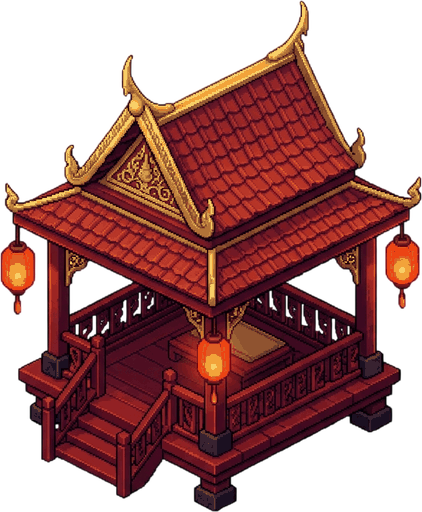
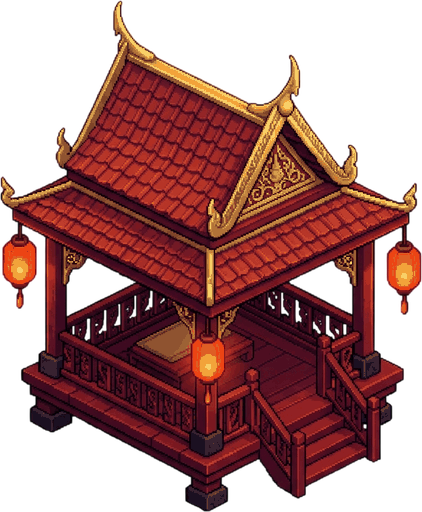
AVEGEE batch23: court open/close only gates new spawns, st-tea flip, guard post, interrogation layout (Codex)

diff --git a/src/room.js b/src/room.js
@@ -118,6 +118,7 @@ function bgOf(src, fallback) {
 /** ฉากภายในหนึ่งห้อง — เรียก destroy() ทุกครั้งที่ปิดหน้า ไม่งั้นลูปเฟรมค้างอยู่ตลอดเกม */
 export function makeRoom(cv, g, def, room, bgSrc, bgFallback, alive = () => true) {
   const P = { x: room.me[0], y: room.me[1], tx: null, ty: null, face: 1 };
+  const mirrorRoom = def.k === 'tea' && g.zone === 'th';
   const KEY = {};
   let raf = 0, last = performance.now(), dead = false;
   let box = { ox: 0, oy: 0, w: 1, h: 1 };     // กรอบที่ภาพฉากถูกวางจริงบน canvas
@@ -134,7 +135,7 @@ export function makeRoom(cv, g, def, room, bgSrc, bgFallback, alive = () => true
   let locked = false;
 
   // ---- พิกัดสัดส่วน (0-1 ของภาพฉาก) → พิกเซลบน canvas ----
-  const px = u => box.ox + u * box.w;
+  const px = u => box.ox + (mirrorRoom ? 1 - u : u) * box.w;
   const py = v => box.oy + v * box.h;
   const unit = () => Math.min(box.w, box.h);     // ใช้คิดความสูงตัวละครให้คงที่ทุกอัตราส่วน
 
@@ -198,7 +199,8 @@ export function makeRoom(cv, g, def, room, bgSrc, bgFallback, alive = () => true
     const r = cv.getBoundingClientRect();
     const cx = (e.clientX - r.left) / r.width * cv.width;
     const cy = (e.clientY - r.top) / r.height * cv.height;
-    const [tx, ty] = snap((cx - box.ox) / box.w, (cy - box.oy) / box.h);
+    const visualX = (cx - box.ox) / box.w;
+    const [tx, ty] = snap(mirrorRoom ? 1 - visualX : visualX, (cy - box.oy) / box.h);
     P.tx = tx; P.ty = ty;
   };
   cv.addEventListener('pointerdown', onDown);
@@ -231,6 +233,7 @@ export function makeRoom(cv, g, def, room, bgSrc, bgFallback, alive = () => true
     let dx = 0, dy = 0;
     if (KEY.a || KEY.arrowleft) dx -= 1;
     if (KEY.d || KEY.arrowright) dx += 1;
+    if (mirrorRoom) dx = -dx;
     if (KEY.w || KEY.arrowup) dy -= 1;
     if (KEY.s || KEY.arrowdown) dy += 1;
     if (!dx && !dy && P.tx != null) {            // เดินไปจุดที่แตะไว้
@@ -245,7 +248,7 @@ export function makeRoom(cv, g, def, room, bgSrc, bgFallback, alive = () => true
       else if (inArea(nx, P.y)) P.x = nx;
       else if (inArea(P.x, ny)) P.y = ny;
       else P.tx = null;
-      if (Math.abs(dx) > 0.001) P.face = dx < 0 ? -1 : 1;
+      if (Math.abs(dx) > 0.001) P.face = (mirrorRoom ? -dx : dx) < 0 ? -1 : 1;
     }
     const ii = g.items.findIndex(it => it.from === def.k);
     if (ii >= 0 && room.item && Math.hypot(P.x - room.item[0], (P.y - room.item[1]) * 0.75) < 0.055) {
@@ -286,21 +289,29 @@ export function makeRoom(cv, g, def, room, bgSrc, bgFallback, alive = () => true
       const s = Math.min(W / sw, H / sh);
       box = { ox: (W - sw * s) / 2, oy: (H - sh * s) / 2, w: sw * s, h: sh * s };
       ctx.fillStyle = '#120810'; ctx.fillRect(0, 0, W, H);
+      // ห้องศาลาโซนไทยใช้ภาพฉากเดิม แต่หันให้ตรงกับสไปรท์บนแผนที่;
+      // จุดเดิน/จุดนั่งแปลงผ่าน px และ pointer เพื่อให้ยังตรงกับภาพที่กลับด้าน
+      const drawRoomBg = () => {
+        ctx.save();
+        if (mirrorRoom) { ctx.translate(box.ox * 2 + box.w, 0); ctx.scale(-1, 1); }
+        ctx.drawImage(bg, sx, sy, sw, sh, box.ox, box.oy, box.w, box.h);
+        ctx.restore();
+      };
       // ยกแสงเฉพาะภาพฉาก ตัวละครไม่โดนด้วย จะได้ยังเด่นอยู่บนพื้นหลัง
       const bf = room.bright || brightOf(bg, bgSrc);
       if (Math.abs(bf - 1) > 0.02 && canFilter()) {
         ctx.save();
         ctx.filter = `brightness(${bf.toFixed(2)})`;
-        ctx.drawImage(bg, sx, sy, sw, sh, box.ox, box.oy, box.w, box.h);
+        drawRoomBg();
         ctx.restore();
       } else if (bf > 1.02) {                            // ไม่รองรับ filter — ทับอีกชั้นแบบบวกแสง
-        ctx.drawImage(bg, sx, sy, sw, sh, box.ox, box.oy, box.w, box.h);
+        drawRoomBg();
         ctx.save();
         ctx.globalCompositeOperation = 'lighter';
         ctx.globalAlpha = Math.min(0.5, (bf - 1) * 0.7);
-        ctx.drawImage(bg, sx, sy, sw, sh, box.ox, box.oy, box.w, box.h);
+        drawRoomBg();
         ctx.restore();
-      } else ctx.drawImage(bg, sx, sy, sw, sh, box.ox, box.oy, box.w, box.h);
+      } else drawRoomBg();
       applyLight(ctx, room.light, box);                 // ห้องที่สว่างเกิน — ย้อมลงเฉพาะภาพฉาก
     } else {
       box = { ox: 0, oy: 0, w: W, h: H };

diff --git a/src/ui.js b/src/ui.js
@@ -781,7 +781,7 @@ document.querySelectorAll('.tabs [data-tab]').forEach(el =>
 $('#atk').onclick = tryFight;
 $('#fab-atk').onclick = tryFight;
 function goTrial() {
-  if (!g.queue[0] || g.courtClosed || g.over || g.battle) return;
+  if (!g.queue[0] || g.over || g.battle) return;
   openTrial();
 }
 
@@ -939,18 +939,18 @@ function updateTrialBtn() {
   const s = g.queue[0];
   const b = deckBar.querySelector('#d-trial');
   if (b) {
-    b.disabled = !s || g.courtClosed;
-    b.className = s && !g.courtClosed ? 'gold' : '';
-    b.textContent = s && !g.courtClosed ? t('hud.trialBegins') : t('hud.trialRecess');
+    b.disabled = !s || !!g.over || !!g.battle;
+    b.className = !b.disabled ? 'gold' : '';
+    b.textContent = !b.disabled ? t('hud.trialBegins') : t('hud.trialRecess');
   }
   // ทางเข้าหลักอยู่ล่างกลาง; เก็บปุ่มลอยเก่าที่อาจค้างจากการวาดก่อนหน้า
   const f = ov.querySelector('.trialfab');
   if (f) f.remove();
   const trial = $('#hud-trial');
   if (trial) {
-    trial.disabled = !s || g.courtClosed || !!g.over || !!g.battle;
+    trial.disabled = !s || !!g.over || !!g.battle;
     trial.textContent = t(trial.disabled ? 'hud.trialRecess' : 'hud.trialBegins');
-    trial.title = g.courtClosed ? t('hud.courtClosedTrial') : trial.disabled ? t('hud.noCourt') : t('hud.trialBegins');
+    trial.title = trial.disabled ? t('hud.noCourt') : t('hud.trialBegins');
     trial.setAttribute('aria-label', trial.disabled ? `${trial.textContent} — ${trial.title}` : trial.title);
   }
 }
@@ -1035,8 +1035,8 @@ function updateFrontierFab() {
  *  ทางเข้าหลักอยู่ที่ปุ่มเริ่มพิจารณาคดีล่างกลาง; ปุ่มนี้เป็นทางเข้าเดียวกันจากแผงเดิม */
 function drawDeck() {
   const s = g.queue[0];
-  if (!s || g.over || g.courtClosed) {
-    deckBar.innerHTML = `<div class="idle">${esc(t(g.courtClosed ? 'hud.courtClosedTrial' : 'hud.noCourt'))}</div>`;
+  if (!s || g.over || g.battle) {
+    deckBar.innerHTML = `<div class="idle">${esc(t('hud.noCourt'))}</div>`;
     return;
   }
   deckBar.innerHTML = `
@@ -1601,7 +1601,7 @@ function playActionCutscene(k, ultimate = null) {
 let trialCmd = 'ask';        // แผงขวาเป็นการไต่สวนเสมอ; ตัวเลือกคำตัดสินอยู่ในวงคำสั่งบนเวที
 
 function openTrial(initialError = '') {
-  if (g.courtClosed) return;
+  if (g.over || g.battle) return;
   const s = g.queue[0];
   if (!s) return;
   pauseForDlg();
@@ -2559,7 +2559,9 @@ function openPause(allowReplacing = false) {
 }
 
 function updatePlay() {
-  $('#play').textContent = t(g.courtClosed ? 'hud.openCourt' : 'hud.closeCourt');
+  const play = $('#play');
+  play.textContent = t(g.courtClosed ? 'hud.openCourt' : 'hud.closeCourt');
+  play.title = t(g.courtClosed ? 'hud.openCourtTip' : 'hud.closeCourtTip');
   // ปุ่มย้ายโซนโผล่เมื่อมีโซนอื่นเปิดให้จริง ๆ เท่านั้น — ไม่งั้นกดแล้วเจอแต่กุญแจ
   const z = $('#zone');
   if (z) {
@@ -2585,7 +2587,8 @@ function updatePlay() {
     court.textContent = t(g.courtClosed ? 'hud.openCourt' : 'hud.closeCourt');
     court.disabled = !!g.over;
     court.setAttribute('aria-pressed', String(!g.courtClosed));
-    court.setAttribute('aria-label', court.textContent);
+    court.title = t(g.courtClosed ? 'hud.openCourtTip' : 'hud.closeCourtTip');
+    court.setAttribute('aria-label', `${court.textContent} — ${court.title}`);
   }
 }
 function toggleCourt() {

diff --git a/src/command-wheel.css b/src/command-wheel.css
@@ -160,7 +160,7 @@ dialog.hudwrap:has(.trial-hud)[open]{position:fixed;inset:0;margin:0;width:100vw
 .trial-hud .hud-opt{min-height:180px;overflow:visible}
 .trial-hud .hud-opt .say{display:block;width:100%;text-align:left;font-size:clamp(14px,1.1vw,18px);line-height:1.45;padding:11px 13px;margin-bottom:8px;background:#443038c9;border-radius:12px}
 .trial-hud .hud-log{font-size:clamp(14px,1.05vw,17px);max-height:140px;line-height:1.55}
-.trial-hud .hud-stage .fig.you{left:2%;bottom:23%;width:16%}
+.trial-hud .hud-stage .fig.you{left:14%;bottom:23%;width:16%}
 .trial-hud .hud-stage .fig.foe{right:7%;bottom:23%;width:25%}
 .trial-hud .hud-stage .fig img{height:clamp(150px,24vh,220px)}
 .trial-hud .hud-bottom{position:absolute;left:14%;bottom:2%;height:auto;padding:0;z-index:12}
@@ -169,7 +169,7 @@ dialog.hudwrap:has(.trial-hud)[open]{position:fixed;inset:0;margin:0;width:100vw
 .trial-hud .port .who2 b{font-size:18px}.trial-hud .port .who2 small{font-size:12px;color:#e1ba71}
 .trial-hpbar{display:block;width:105px;height:8px;margin-top:4px;border-radius:10px;background:#321d1a;border:1px solid #bb8f4f}
 .trial-hpbar i{display:block;height:100%;border-radius:10px;background:#53d974}
-.trial-hud .court-wheel{left:23%;bottom:24%;width:clamp(205px,23vw,300px)}
+.trial-hud .court-wheel{left:31%;bottom:24%;width:clamp(205px,21vw,270px)}
 .court-wheel .command-missing{position:absolute;left:48%;top:calc(100% + 18px);transform:translateX(-50%);width:min(230px,80vw);text-align:center;color:#ffd6ba;font-size:11px;line-height:1.3;text-shadow:0 1px 4px #000;pointer-events:none}
 .court-guide{box-sizing:border-box;width:min(78vw,1050px);max-width:1050px;max-height:88dvh;padding:34px 42px;overflow-x:hidden;overflow-y:auto;overflow-wrap:anywhere}
 .court-guide table{width:100%;table-layout:fixed}.court-guide td,.court-guide th{overflow-wrap:anywhere}
@@ -206,10 +206,10 @@ dialog.help-modal[open]{box-sizing:border-box;width:min(78vw,1050px);max-width:1
   .trial-hud .top-left-icons{left:12px;top:16px;gap:7px}
   .trial-hud .top-left-icons button{width:40px;height:40px}
   .trial-hud .trial-close{right:12px;top:15px;width:41px;height:41px}
-  .trial-hud .hud-stage .fig.you{left:0;bottom:27%;width:17%}
+  .trial-hud .hud-stage .fig.you{left:8%;bottom:27%;width:17%}
   .trial-hud .hud-stage .fig.foe{right:0;bottom:27%;width:27%}
   .trial-hud .hud-stage .fig img{height:145px}
-  .trial-hud .court-wheel{left:18%;bottom:25%;width:210px}
+  .trial-hud .court-wheel{left:24%;bottom:25%;width:185px}
   .trial-hud .hud-right{overflow-y:visible;padding:0}
   .trial-hud .trial-top-actions button{font-size:11px;min-height:67px}
   .trial-hud .trial-top-actions .tab-ico{width:27px;height:27px}

diff --git a/src/game.js b/src/game.js
@@ -995,7 +995,7 @@ const API = {
     this.tick++;
 
     // คดีที่ตัดสินเบาไป — ครบกำหนดแล้วยังไม่สำนึก จึงกลับเข้าคิวเดิม
-    for (let i = this.returning.length - 1; !this.courtClosed && i >= 0; i--) {
+    for (let i = this.returning.length - 1; i >= 0; i--) {
       if (this.tick < this.returning[i].at) continue;
       const R = this.returning.splice(i, 1)[0];
       const soul = this.mkReturnSoul(R);
@@ -2844,6 +2844,14 @@ API.restore = function (d) {
   const allowedMobs = new Set(this.zoneDef().mobs || []);
   this.mobs = this.mobs.filter(m => allowedMobs.has(m.kind ?? 0));
   this.zoneSave = d.zoneSave || {};
+  // เซฟที่ยักษ์ยืนตรงจุดเฝ้าเก่าจะยังบังประตูอยู่ทันทีหลังโหลด;
+  // ย้ายเฉพาะตัวที่ยืน ณ จุดเก่า ตัวที่กำลังวิ่งไล่ปีศาจให้เดินต่อเอง
+  const moveOldGuardPost = guard => {
+    if (guard?.x === 895 && guard?.y === 795) [guard.x, guard.y] = GUARD_POST;
+  };
+  moveOldGuardPost(this.guard);
+  Object.values(this.zoneSave).forEach(saved => moveOldGuardPost(saved?.guard));
+  moveOldGuardPost(this.zoneEntry?.guard);
   if (!d.mapV3FixBranches) {
     // เซฟผัง 1527×704 ยังไม่มี mask ภาพตอน restore: ย้ายตำแหน่งที่ผูกกับผังเก่า
     // ไปจุดเกิดที่เดินได้ แล้วให้ syncBlocks ตรวจซ้ำเมื่อภาพฉากโหลดเสร็จ

diff --git a/src/i18n.js b/src/i18n.js
@@ -57,10 +57,11 @@ const TH = {
   'hud.bag': 'กระเป๋า',
   'hud.openCourt': 'เปิดศาล',
   'hud.closeCourt': 'ปิดศาล',
+  'hud.openCourtTip': 'รับวิญญาณเข้าแถว',
+  'hud.closeCourtTip': 'หยุดรับวิญญาณใหม่ — ยังพิจารณาคดีในแถวได้',
   'hud.trialBegins': 'เริ่มพิจารณาคดี',
   'hud.trialRecess': 'พักพิจารณาคดี',
   'hud.noCourt': 'ยังไม่มีวิญญาณในแถว',
-  'hud.courtClosedTrial': 'ศาลปิดอยู่ — เปิดศาลเพื่อพิจารณาคดีใหม่',
   'station.gamePaused': '⏸ เกมหยุดพักอยู่ — ปิดหน้าต่างพักเพื่อให้งานเดินต่อ',
   'station.closeToResume': 'ปิดหน้าต่างเพื่อเดินเกมต่อ',
   'mob.fromRiver': 'บุกมาจากชายฝั่งแม่น้ำ',
@@ -162,10 +163,11 @@ const EN = {
   'hud.bag': 'Bag',
   'hud.openCourt': 'OPEN COURT',
   'hud.closeCourt': 'CLOSE COURT',
+  'hud.openCourtTip': 'Let new souls join the line',
+  'hud.closeCourtTip': 'Stop new souls — cases already in line can still be heard',
   'hud.trialBegins': 'TRIAL BEGINS',
   'hud.trialRecess': 'TRIAL RECESS',
   'hud.noCourt': 'No souls in line',
-  'hud.courtClosedTrial': 'Court closed — open it to hear a new case',
   'station.gamePaused': '⏸ Game paused — close this window to resume work',
   'station.closeToResume': 'Close window to resume',
   'mob.fromRiver': 'Invading from the riverbank',

diff --git a/src/data.js b/src/data.js
@@ -277,10 +277,8 @@ export const STATIONS = [
         'บุญยังขาย 🌀 วงสะกดจิตให้ด้วย — ยืนใกล้เขาแล้วกดซื้อได้เลย' },
 ];
 
-/** จุดเฝ้าของยักษ์ทวารบาล — ยืนริมตลิ่งข้าง ๆ ประตูชายแดน (FRONTIER) ฝั่งขวาของสะพาน
- *  ชุดที่ 15b (28 ก.ย. 2569) วัดใหม่จากม็อกอัป UI2-th.jpg (ตัวยักษ์ยืนขวาซุ้มประตูหินท้ายสะพาน)
- *  หารด้วย SCALE 1.48987 แล้วปัดให้อยู่ในกรอบ WALK_OK ใหม่ (ดูด้านล่าง) */
-export const GUARD_POST = [895, 795];
+/** จุดเฝ้าของยักษ์ทวารบาล — ฝั่งซ้ายของหัวสะพาน พ้นกรอบประตูชายแดนทุกโซน */
+export const GUARD_POST = [700, 795];
 
 /** จุดสำคัญบนฉากที่ไม่ใช่สถานี — ชุดที่ 15b วัดใหม่จาก img/scene-v2.png จริง (บัลลังก์/บันได/ท่าเรือ
  *  วาดติดอยู่ในภาพฉากเอง ไม่ใช่สไปรท์แยก จึงวัดจากพิกเซลจริงตรง ๆ ไม่ผ่านม็อกอัป) */

diff --git a/scripts/prep-art.py b/scripts/prep-art.py
@@ -408,6 +408,9 @@ def prep(path, name, out_dir=OUT, alpha_threshold=16):
         alpha = im.getchannel('A')
         flat = im.convert('RGB').quantize(colors=COLORS, dither=Image.NONE).convert('RGBA')
         flat.putalpha(alpha)
+        # ศาลาน้ำชาโซนไทย: บันไดต้องอยู่ขวา; กลับก่อนเซฟเพื่อให้แผนที่และภาพอาคารที่โหลดจากไฟล์เดียวกันตรงกัน
+        if name == 'st-tea':
+            flat = flat.transpose(Image.Transpose.FLIP_LEFT_RIGHT)
         flat.save(os.path.join(OUT, name + '.png'))
         return flat.size
 
